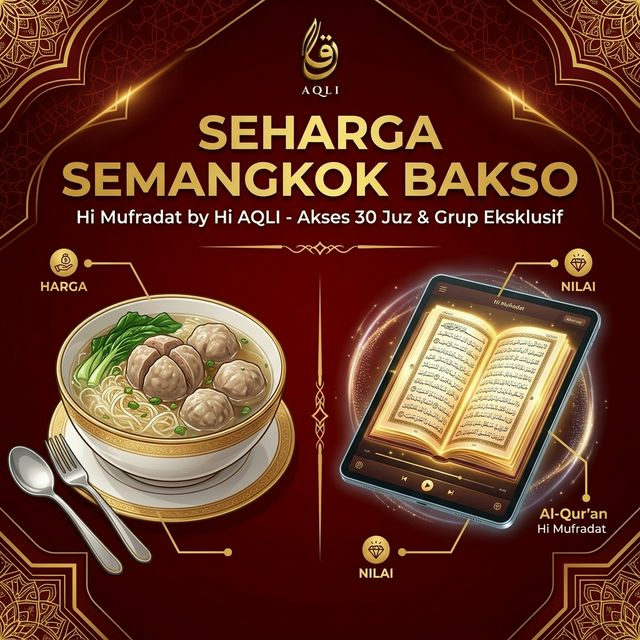
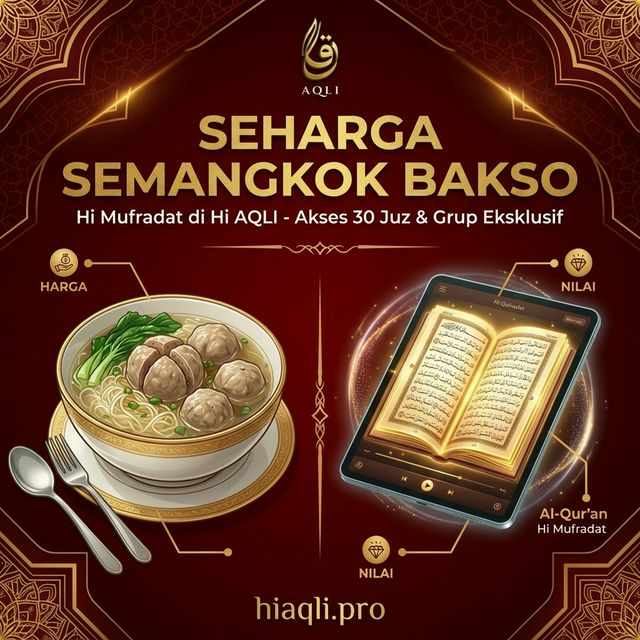
feat: finalize Hi Mufradat v3 poster with 'di Hi AQLI' and domain link

diff --git a/docs/marketing/promo-hi-mufradat.md b/docs/marketing/promo-hi-mufradat.md
@@ -12,7 +12,7 @@
 Kami menyediakan 3 variasi poster untuk kebutuhan promosi Ukhti:
 - **Versi 1 (Elegant)**: Fokus pada nilai spiritual dengan desain Al-Qur'an bercahaya. Cocok untuk broadcast utama.
 - **Versi 2 (Lifestyle)**: Fokus pada kenyamanan belajar di mana saja (mobile-first). Cocok untuk media sosial.
-- **Versi 3 (Value)**: Fokus pada proposisi nilai "Seharga Semangkok Bakso". Sangat menarik perhatian untuk promosi singkat.
+- **Versi 3 (Value - TERBARU)**: Fokus pada proposisi nilai "Seharga Semangkok Bakso" dengan branding *"Hi Mufradat di Hi AQLI"* dan link akses `hiaqli.pro`. Sangat menarik perhatian untuk promosi singkat.
 
 ## Strategi Penggunaan
 Ukhti dapat menggunakan poster ini untuk:
